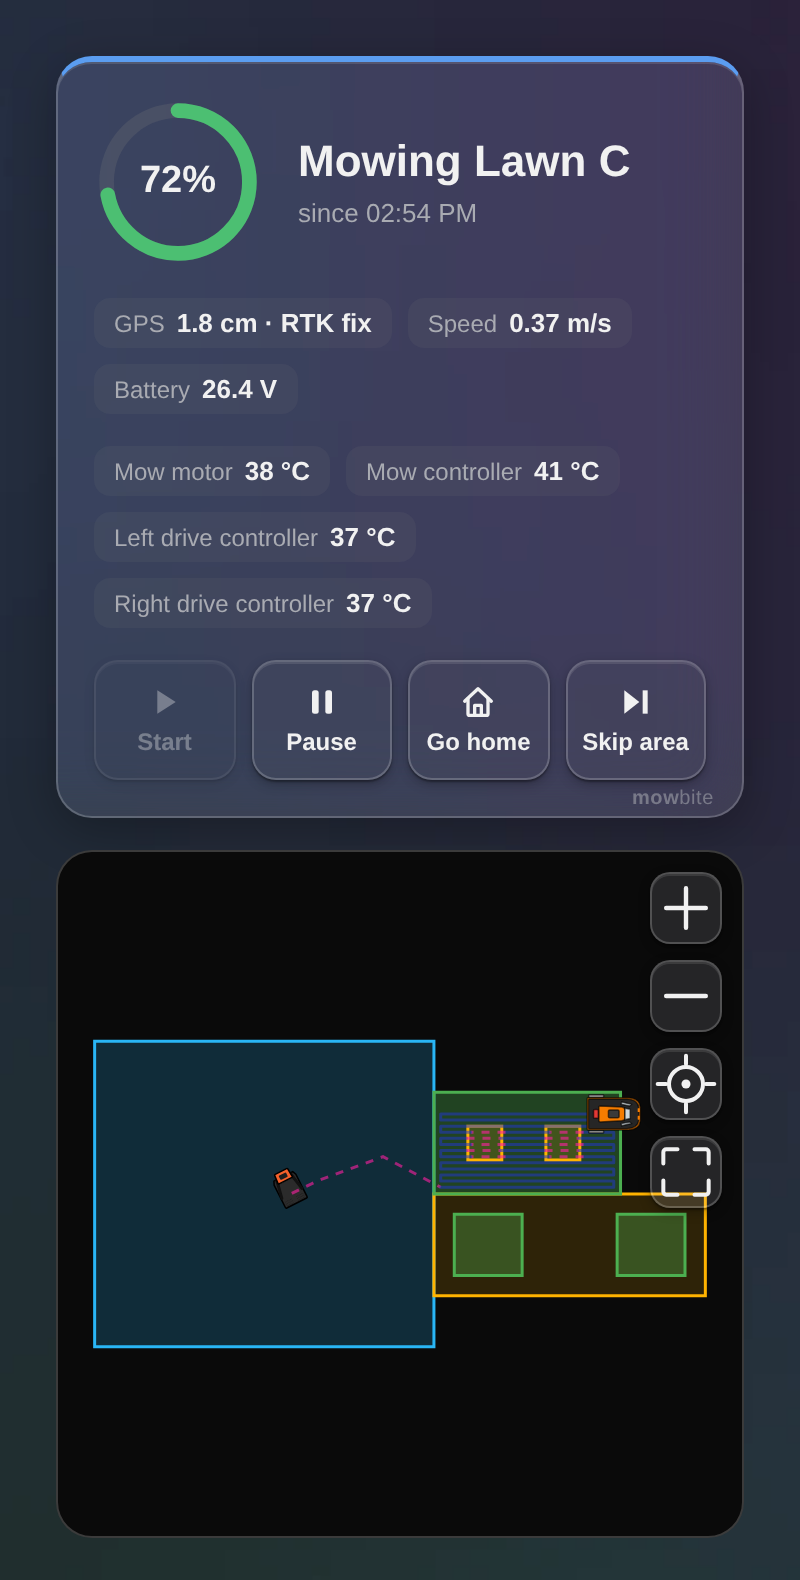
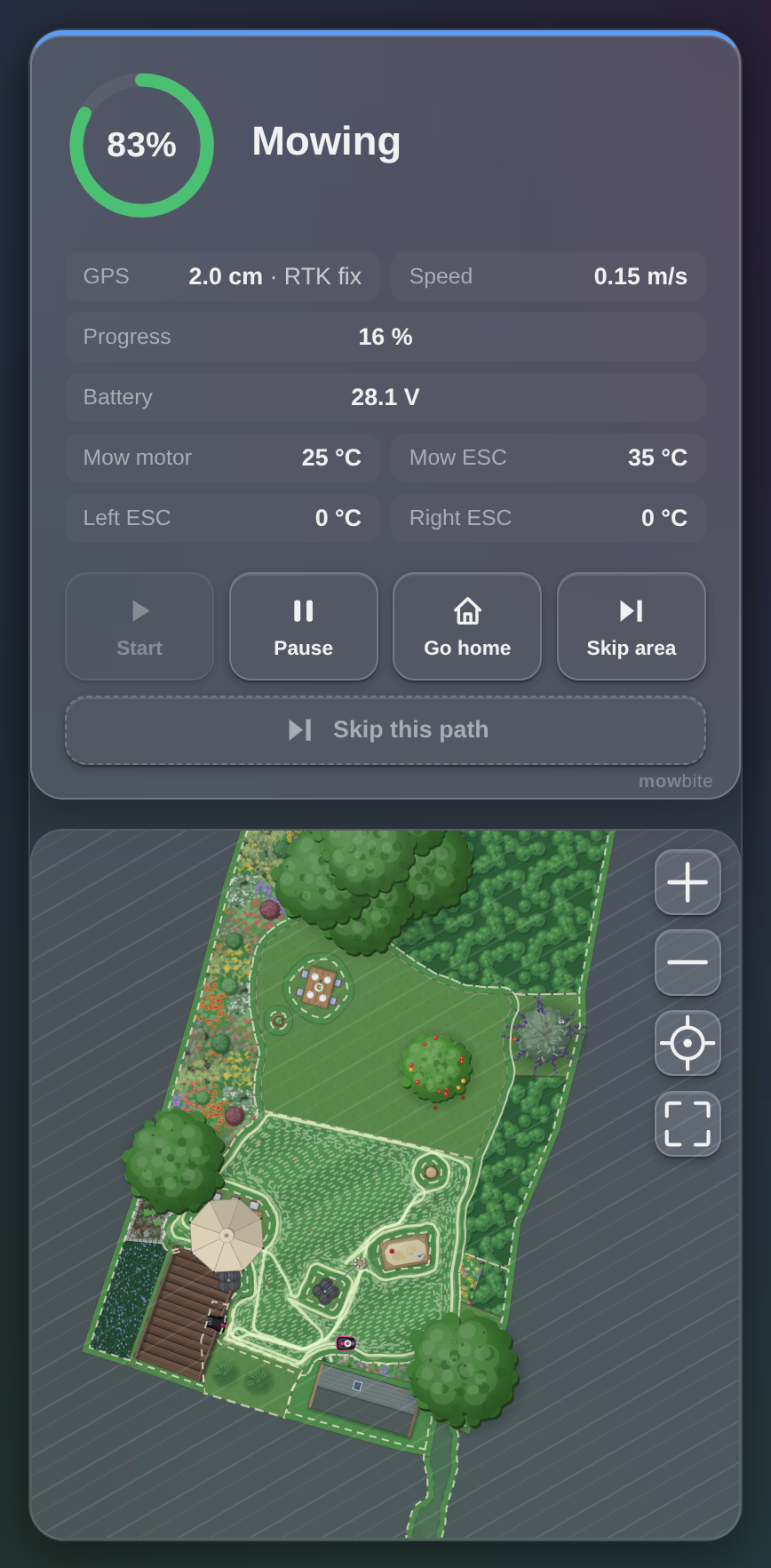
readme: the card's pictures as it looks now (the garden style with the mower driving, wide, on a phone and the map up close), and MowBite's decorations

diff --git a/README.md b/README.md
@@ -46,7 +46,9 @@ mower's MQTT broker directly, no cloud and no extra add-on.
 - **Map colours and icons from MowBite**: with the address of your MowBite container set, the map uses the
   colours, icons and icon sizes you picked in the app, and its garden style with the pictures picked for each area.
   Without it a card can have the garden style too, the pictures then go by the areas' names (an area called "tree"
-  or "Baum" gets a tree, "table" a table, "parasol" a parasol).
+  or "Baum" gets a tree, "table" a table, "parasol" a parasol). MowBite's decorations, areas that are only a
+  picture (the beds round the lawn the mower never reaches), are drawn like obstacles, the integration leaves them
+  out.
 - **The mower at its real size**: with the mower's sizes known the map draws its outline with the blade, and along
   the track the strip the blade really cut.
 - **What's still to mow**: while mowing, the map shows the rest of the area's plan as a thin dashed line, after a
@@ -56,10 +58,10 @@ mower's MQTT broker directly, no cloud and no extra add-on.
 
 What it reads is what OpenMower publishes on MQTT: `robot_state`, `actions`, `sensors`, `events`,
 `position` and `map`, and over the mower's rpc its plans and event history, asked when something changes (an area
-starts, the mower docks, the map changes), never polled. The track of a job that was already running when Home Assistant started comes from the
-mower's position history (OpenMower 1.3 and newer). An emergency stop is told once it has lasted 10 seconds,
-like MowBite's own notifications do it, and a navigation error only when the mower doesn't head home right
-after it (OpenMower reports one when it's sent home in the middle of a path).
+starts, the mower docks, the map changes), never polled. The track of a job that was already running when Home
+Assistant started comes from the mower's position history (OpenMower 1.3 and newer). An emergency stop is told
+once it has lasted 10 seconds, like MowBite's own notifications do it, and a navigation error only when the mower
+doesn't head home right after it (OpenMower reports one when it's sent home in the middle of a path).
 
 ### Which OpenMower
 
@@ -133,6 +135,8 @@ picked for the areas, the real edges and the mower's outline. With the MowBite a
 its pictures (1.4.0-beta.7 and newer) the card takes them from the mower, so it looks like the MowBite the mower
 runs, else the ones that came with the integration. The mower's pictures run in a sandbox of their own, they can't
 reach Home Assistant.
+
+![The map in the garden style while the mower drives](images/map.png)
 
 The map zooms with the buttons, the mouse wheel or two fingers, and moves when dragged. While the mower drives the
 map follows it like the app's overview: a few metres around the mower, with the mower gliding in the middle.
